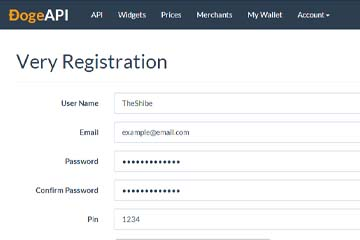
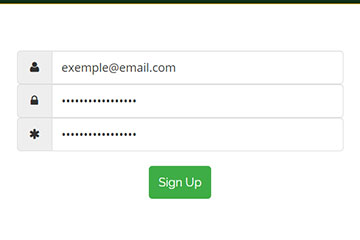
Change DogeAPI to Block.io
I corrected English sentences
(https://github.com/dogecoin/dogecoin.com/pull/53#discussion-diff-19197919
https://github.com/dogecoin/dogecoin.com/pull/53#discussion-diff-19198085)
and deleted Moolah.

diff --git a/getting-started/index.html b/getting-started/index.html
@@ -115,7 +115,7 @@ redirect_from: "/get-started/"
 <div id="select-online-os" class="os_slide text-center" style="background-color: #3ba4da;">
 	<div style="padding-bottom: 10px; padding-top: 10px;">
 		<ul class="tabs">
-		<li><a class="buttons" id="dogeapi-online-os-button" href="#dogeapi-online-os"><span class="fa fa-rocket"></span> <span data-i18n="dgc-browser-modal-dogeapi">DogeAPI</span></a></li>
+		<li><a class="buttons" id="blockio-online-os-button" href="#blockio-online-os"><span class="fa fa-rocket"></span> <span data-i18n="dgc-browser-modal-blockio">Block.io</span></a></li>
 		</ul>
 		
 		<h4 data-i18n="dgc-getting-started-online-choice">Please choose your Online Wallet.</h4>
@@ -554,7 +554,7 @@ redirect_from: "/get-started/"
 	</div>
 </div>
 
-<div id="dogeapi-online-os" class="tutorial tutorial_slide">
+<div id="blockio-online-os" class="tutorial tutorial_slide">
 	<div class="container">
 		<div class="row">
 			<div style="padding-top: 50px;">
@@ -563,9 +563,9 @@ redirect_from: "/get-started/"
 				</div>
 				<div class="col-md-8">
 					<div class="alert alert-info"><i class="fa fa-info-circle"></i> <span data-i18n="dgc-getting-started-web-warning"><strong>Note:</strong> For storing large amounts of Dogecoin, desktop wallets are highly recommended as a good security practice.</span></div>
-					<h2><strong data-i18n="dgc-getting-started-web-blockio-1-0">1. Sign Up on DogeAPI.</strong></h2>
-					<p data-i18n="dgc-getting-started-web-blockio-1-1">Click the link below to go to the registration page. <br/>Fill out the necessary details, then click the Register button.</p>
-					<h4><a href="https://www.dogeapi.com/register" target="_blank" data-i18n="dgc-getting-started-web-blockio-1-2">Sign up for a DogeAPI account here.</a></h4>
+					<h2><strong data-i18n="dgc-getting-started-web-blockio-1-0">1. Sign Up on Block.io</strong></h2>
+					<p data-i18n="dgc-getting-started-web-blockio-1-1">Click the link below to go to the registration page. <br/>Fill out the necessary details, then click the Sign Up button.</p>
+					<h4><a href="https://www.blockio.com/register" target="_blank" data-i18n="dgc-getting-started-web-blockio-1-2">Sign up for a Block.io account here.</a></h4>
 				</div>
 			</div>
 		</div>
@@ -576,22 +576,35 @@ redirect_from: "/get-started/"
 					<img style="padding-bottom: 30px;" src="../imgs/tut/dogewallet_signup_02.jpg" class="img-responsive center-block" alt="Dogecoin Wallet Launch" />
 				</div>
 				<div class="col-md-8">
-					<h2><strong data-i18n="dgc-getting-started-web-blockio-2-0">2. Verify Your Account.</strong></h2>
-					<p data-i18n="dgc-getting-started-web-blockio-2-1">After registering, you will be asked to confirm your account with a verification email.</p>
-					<p data-i18n="dgc-getting-started-web-blockio-2-2">Go to your email account and click the verification link in the email.</p>
+					<h2><strong data-i18n="dgc-getting-started-web-blockio-2-0">2. Set Your Secret PIN.</strong></h2>
+					<p data-i18n="dgc-getting-started-web-blockio-2-1">Create a Secret PIN containing at least 8 characters (only numbers and letters are allowed).</p>
+					<p data-i18n="dgc-getting-started-web-blockio-2-2">Then click Set Secret PIN.</p>
 				</div>
 			</div>
 		</div>
 		<hr>
 		<div class="row">
-			<div class="padding-top: 50px;">
+			<div style="padding-top: 30px;">
 				<div class="col-md-4">
 					<img style="padding-bottom: 30px;" src="../imgs/tut/dogewallet_signup_03.jpg" class="img-responsive center-block" alt="Dogecoin Wallet Launch" />
 				</div>
 				<div class="col-md-8">
-					<h2><strong data-i18n="dgc-getting-started-3-0">3. Use Your Wallet!</strong></h2>
-					<p data-i18n="dgc-getting-started-web-blockio-3-1">Now you have an online Dogecoin wallet at DogeAPI! <br/>You can use the online wallet to send and receive Dogecoins.</p>
-					<p data-i18n="dgc-getting-started-web-blockio-3-2">On the top-left, you have the option to send Dogecoins. On the top-right are your receive addresses. On the bottom is your transaction history.</p>
+					<h2><strong data-i18n="dgc-getting-started-web-blockio-3-0">3. Note your Secret Mnemonic.</strong></h2>
+					<p data-i18n="dgc-getting-started-web-blockio-3-1">Keep the generated Secret Mnemonic in a safe location.</p>
+					<p data-i18n="dgc-getting-started-web-blockio-3-2">Check the box to confirm that you are aware that if you lose your PIN and Mnemonic, then you will lose access to your coins.<br/>Click the done button.</p>
+				</div>
+			</div>
+	    </div>
+        <hr>
+		<div class="row">
+			<div class="padding-top: 50px;">
+				<div class="col-md-4">
+					<img style="padding-bottom: 30px;" src="../imgs/tut/dogewallet_signup_04.jpg" class="img-responsive center-block" alt="Dogecoin Wallet Launch" />
+				</div>
+				<div class="col-md-8">
+					<h2><strong data-i18n="dgc-getting-started-web-blockio-4-0">4. Use Your Wallet!</strong></h2>
+					<p data-i18n="dgc-getting-started-web-blockio-4-1">Now you have an online Dogecoin wallet at Block.io! <br/>You can use the online wallet to send and receive Dogecoins.</p>
+					<p data-i18n="dgc-getting-started-web-blockio-4-2">Click the Deposit button to deposit Dogecoins, click the Withdraw button to withdraw Dogecoins.</p>
 					<p data-i18n="dgc-getting-started-wallet-done">You have just finished setting up your Dogecoin wallet!</p>
 				</div>
 			</div>
@@ -623,7 +636,7 @@ redirect_from: "/get-started/"
 						</div>
 					</div>
 					<hr style="border-color: grey">
-					<h5 data-i18n="">Photos, DogeAPI Guide, and Website made by <a href="http://reddit.com/user/PowerLemons" target="_blank">/u/PowerLemons</a>.</h5>
+					<h5 data-i18n="">Photos, Block.io Guide, and Website made by <a href="http://reddit.com/user/PowerLemons" target="_blank">/u/PowerLemons</a>.</h5>
 					<h5 data-i18n="dgc-footer-copyright">© The Ðogecoin Project</h5>
 				</div>
 			</footer>

diff --git a/js/dogecoin_getstart.min.js b/js/dogecoin_getstart.min.js
@@ -1,1 +1,1 @@
-function buttons(e,t,n,r,i){if(window.location.hash===e){$(t).addClass("selected");$(n).removeClass("selected");$(r).removeClass("selected");$(i).removeClass("selected")}}function slide_effect(e,t){if(window.location.hash===e){$(".tutorial_slide:not(show)").hide("slide",{direction:"right"},500).promise().done(function(){$(t).show("slide",{direction:"left"},500)})}}function os_slide_effect(e,t){if(window.location.hash===e){$(".buttons").removeClass("selected");$(function(){$(".tutorial_slide").hide("slide",{direction:"right"},500);$(".os_slide:not(show)").hide("slide",{direction:"right"},500).promise().done(function(){$(t).show("slide",{direction:"left"},500)})})}}$(document).ready(function(){enablei18n()});window.onhashchange=function(){buttons("#desktop-wallet","#desktop-button","#phone-button","#online-button","#paper-button");os_slide_effect("#desktop-wallet","#select-desktop-os");buttons("#phone-wallet","#phone-button","#desktop-button","#online-button","#paper-button");os_slide_effect("#phone-wallet","#select-mobile-os");buttons("#online-wallet","#online-button","#desktop-button","#phone-button","#paper-button");os_slide_effect("#online-wallet","#select-online-os");buttons("#paper-wallet","#paper-button","#desktop-button","#phone-button","#online-button");os_slide_effect("#paper-wallet","#select-paper-os");buttons("#windows-desktop-os","#windows-desktop-os-button","#apple-desktop-os-button","#linux-desktop-os-button");slide_effect("#windows-desktop-os","#windows-desktop-os");buttons("#apple-desktop-os","#apple-desktop-os-button","#windows-desktop-os-button","#linux-desktop-os-button");slide_effect("#apple-desktop-os","#apple-desktop-os");buttons("#linux-desktop-os","#linux-desktop-os-button","#windows-desktop-os-button","#apple-desktop-os-button");slide_effect("#linux-desktop-os","#linux-desktop-os");buttons("#android-mobile-os","#android-mobile-os-button","#apple-mobile-os-button",undefined);slide_effect("#android-mobile-os","#android-mobile-os");buttons("#apple-mobile-os","#apple-mobile-os-button","#android-mobile-os-button",undefined);slide_effect("#apple-mobile-os","#apple-mobile-os");buttons("#dogeapi-online-os","#dogeapi-online-os-button",undefined);slide_effect("#dogeapi-online-os","#dogeapi-online-os");buttons("#walletgenerator-paper-os","#walletgenerator-paper-os-button",undefined,undefined);slide_effect("#walletgenerator-paper-os","#walletgenerator-paper-os")}
+function buttons(e,t,n,r,i){if(window.location.hash===e){$(t).addClass("selected");$(n).removeClass("selected");$(r).removeClass("selected");$(i).removeClass("selected")}}function slide_effect(e,t){if(window.location.hash===e){$(".tutorial_slide:not(show)").hide("slide",{direction:"right"},500).promise().done(function(){$(t).show("slide",{direction:"left"},500)})}}function os_slide_effect(e,t){if(window.location.hash===e){$(".buttons").removeClass("selected");$(function(){$(".tutorial_slide").hide("slide",{direction:"right"},500);$(".os_slide:not(show)").hide("slide",{direction:"right"},500).promise().done(function(){$(t).show("slide",{direction:"left"},500)})})}}$(document).ready(function(){enablei18n()});window.onhashchange=function(){buttons("#desktop-wallet","#desktop-button","#phone-button","#online-button","#paper-button");os_slide_effect("#desktop-wallet","#select-desktop-os");buttons("#phone-wallet","#phone-button","#desktop-button","#online-button","#paper-button");os_slide_effect("#phone-wallet","#select-mobile-os");buttons("#online-wallet","#online-button","#desktop-button","#phone-button","#paper-button");os_slide_effect("#online-wallet","#select-online-os");buttons("#paper-wallet","#paper-button","#desktop-button","#phone-button","#online-button");os_slide_effect("#paper-wallet","#select-paper-os");buttons("#windows-desktop-os","#windows-desktop-os-button","#apple-desktop-os-button","#linux-desktop-os-button");slide_effect("#windows-desktop-os","#windows-desktop-os");buttons("#apple-desktop-os","#apple-desktop-os-button","#windows-desktop-os-button","#linux-desktop-os-button");slide_effect("#apple-desktop-os","#apple-desktop-os");buttons("#linux-desktop-os","#linux-desktop-os-button","#windows-desktop-os-button","#apple-desktop-os-button");slide_effect("#linux-desktop-os","#linux-desktop-os");buttons("#android-mobile-os","#android-mobile-os-button","#apple-mobile-os-button",undefined);slide_effect("#android-mobile-os","#android-mobile-os");buttons("#apple-mobile-os","#apple-mobile-os-button","#android-mobile-os-button",undefined);slide_effect("#apple-mobile-os","#apple-mobile-os");buttons("#blockio-online-os","#blockio-online-os-button",undefined);slide_effect("#blockio-online-os","#blockio-online-os");buttons("#walletgenerator-paper-os","#walletgenerator-paper-os-button",undefined,undefined);slide_effect("#walletgenerator-paper-os","#walletgenerator-paper-os")}

diff --git a/js/dogecoin_getstart.js b/js/dogecoin_getstart.js
@@ -74,9 +74,9 @@ window.onhashchange = function() {
 	slide_effect("#apple-mobile-os", "#apple-mobile-os");
 	
 // Online Wallet Selection
-	// DogeAPI Button
-	buttons("#dogeapi-online-os", "#dogeapi-online-os-button", undefined);
-	slide_effect("#dogeapi-online-os", "#dogeapi-online-os");
+	// Block.io Button
+	buttons("#blockio-online-os", "#blockio-online-os-button", undefined);
+	slide_effect("#blockio-online-os", "#blockio-online-os");
 	
 // Paper Wallet Selection
 	// Walletgenerator Button
